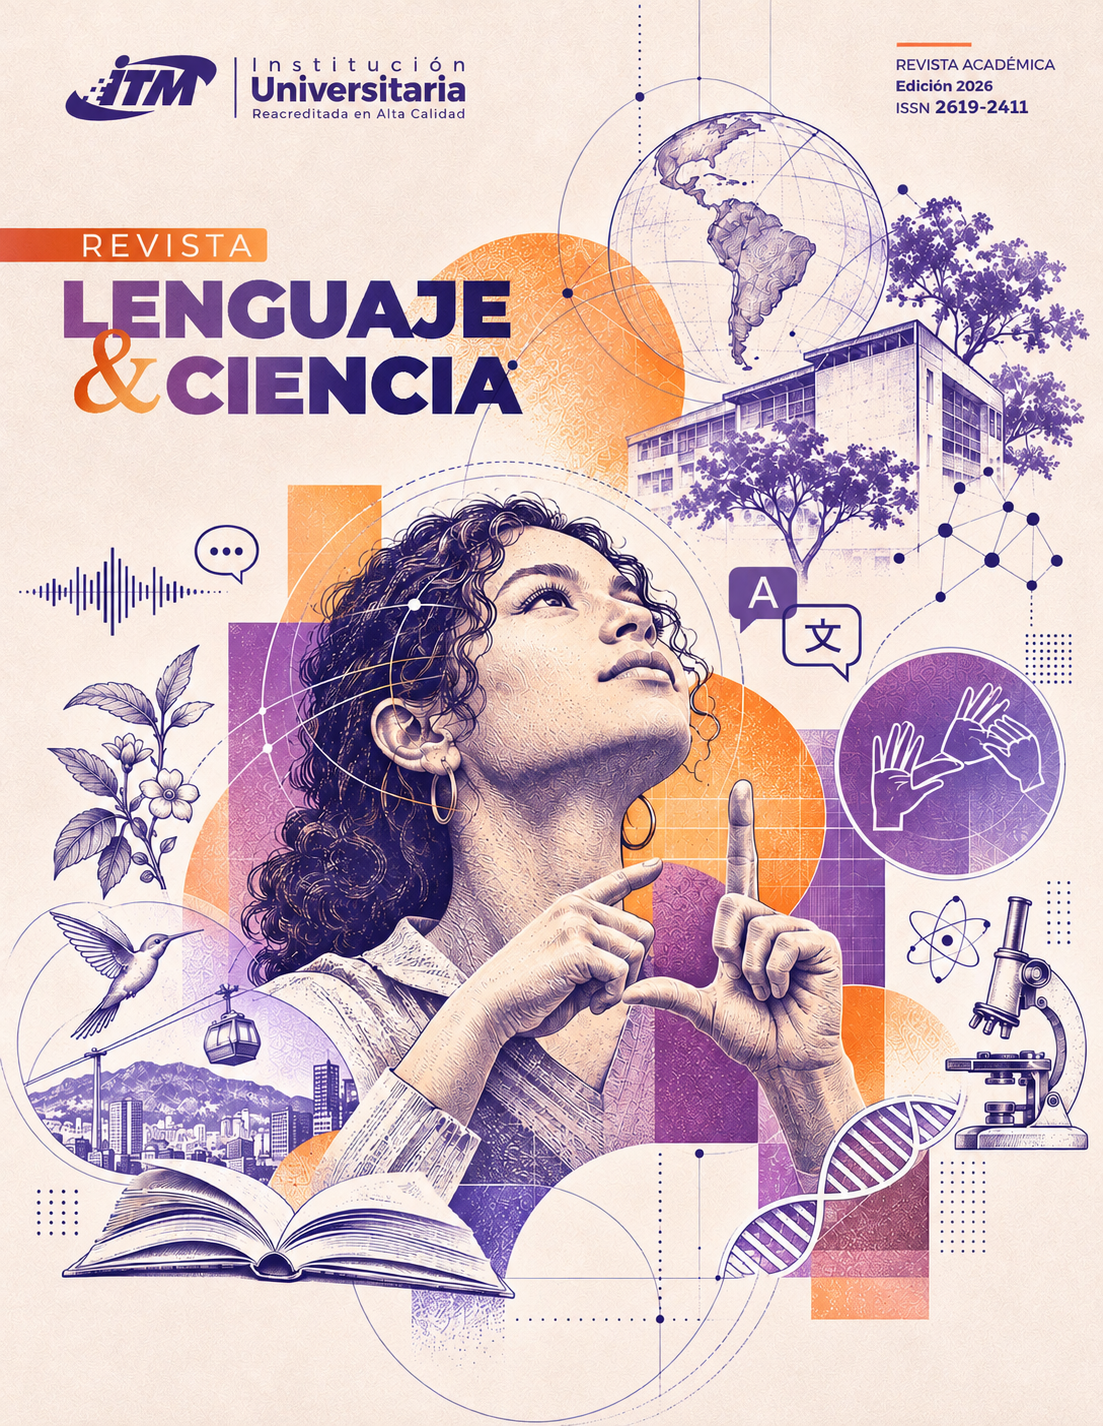
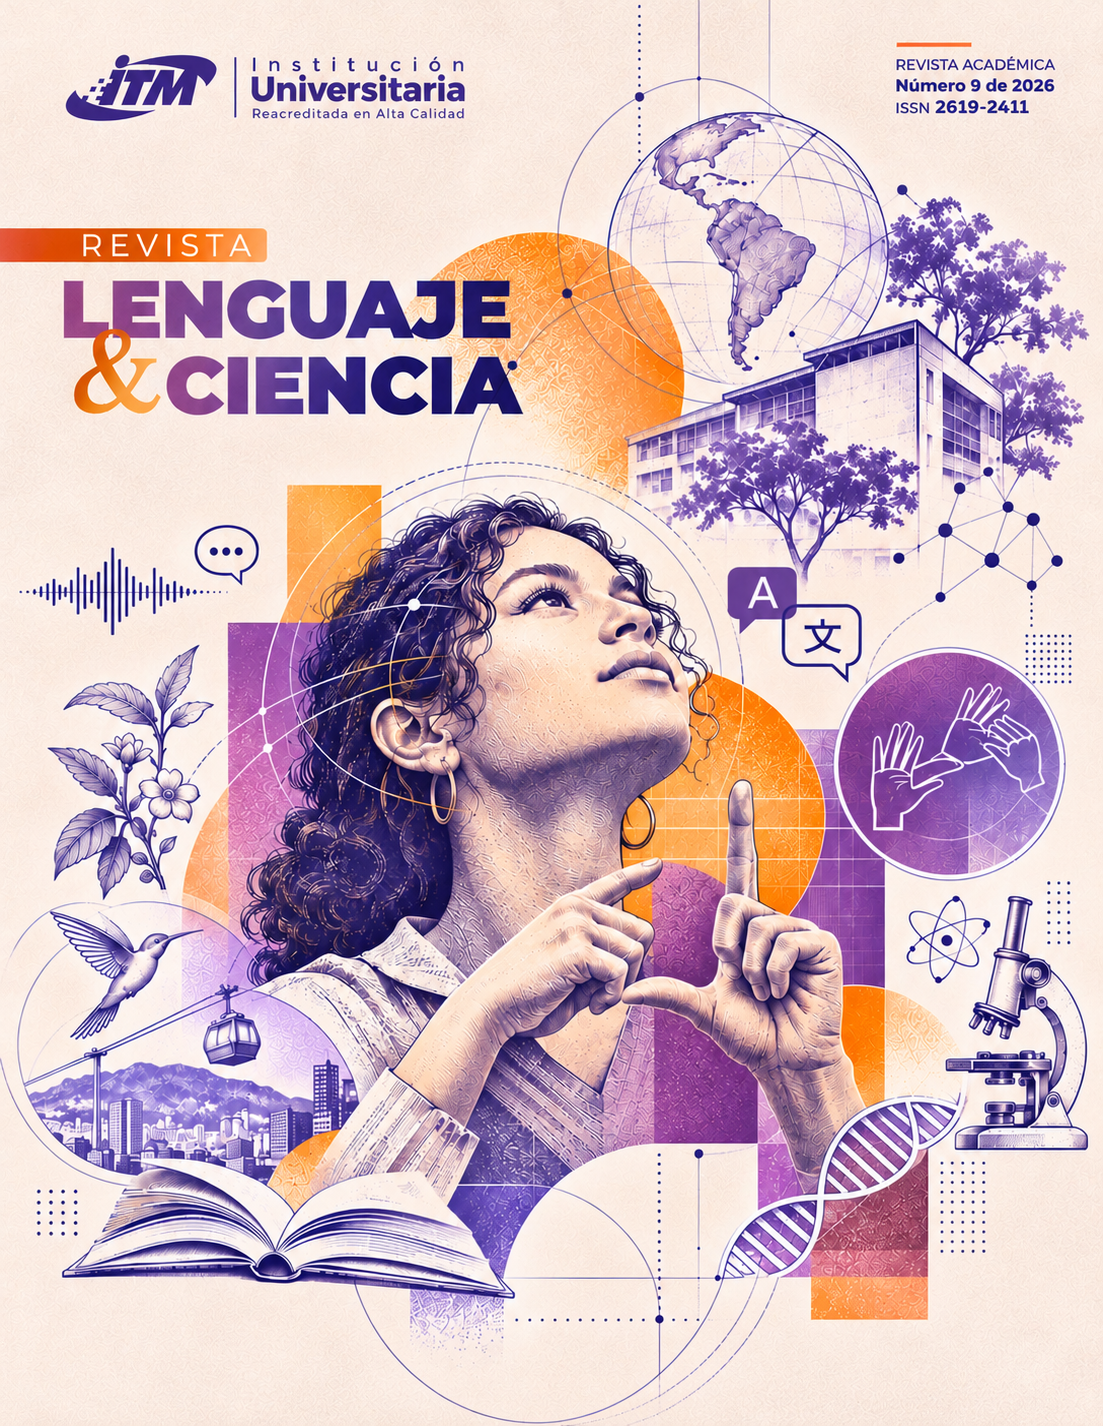
Actualizar libro LSC_20262

diff --git a/LSC_20262/index.html b/LSC_20262/index.html
@@ -117,7 +117,7 @@
 		<p align="center">Dora Alejandra Ramírez Vallejo</p>
 		<p align="center"><a class="tooltip"><font color="blue"><b>Departamento de Idiomas</b></font></a></p>
 		<p align="center">Facultad de Artes y Humanidades</p><br>
-		<p align="justified" style="font-size: 10px;"><b><i>Lenguaje y Ciencia/ Vanessa Rojas Mesa y Valentina Valencia Yepes. Editoras. -No.9 (2026). - Medellín: Institución Universitaria ITM. Facultad de Artes y Humanidades. Departamento de Idiomas, 2026. 201 páginas</i></b></p>
+		<p align="justified" style="font-size: 10px;"><b><i>Lenguaje y Ciencia/ Vanessa Rojas Mesa y Valentina Valencia Yepes. Editoras. -No.9 (2026). - Medellín: Institución Universitaria ITM. Facultad de Artes y Humanidades. Departamento de Idiomas, 2026. 203 páginas</i></b></p>
 		<p align="justified" style="font-size: 10px;"> 1. Publicación seriada. 2. Escritura académica. 3. Lenguaje y Ciencia. I.  Vanessa Rojas Mesa y Valentina Valencia Yepes (eds.) II. Institución Universitaria ITM. Facultad de Artes y Humanidades. Departamento de Idiomas. Catalogación en la publicación - Biblioteca ITM </p><br>
 		<p align="center" style="position: absolute; bottom: 150px; left:0; right:0;">
 				   <img src="https://visitor-badge.laobi.icu/badge?page_id=LSC2026&color=green&title=Visitas" alt="Contador de visitas"> 
@@ -353,9 +353,14 @@
 		<p align="right">
         <b>Carlos Andrés Zambrano Miranda</b>
 		</p>
-
-		<br><br><br>
-
+		<br><p><b><i>Resumen</i></b></p>
+		<p><span class="first-word">Gracias a la globalización, impulsada en gran medida por las redes sociales, hoy día es más fácil que nunca la circulación rápida de información alrededor del mundo. Este fenómeno también permite el contacto, comunicación e intercambio cultural constante entre comunidades de diferentes países. Ahora bien, estas dinámicas nos plantean una reflexión y preocupación frente a la posible influencia de este contacto e intercambio cultural sobre la identidad de la Comunidad Sorda colombiana y sobre la LSC como su lengua propia y parte de su patrimonio cultural. Este artículo considera que, si bien la LSC ha experimentado un proceso constante de desarrollo y reconocimiento a lo largo de los años, recientemente se ve expuesta a una mayor influencia de otras lenguas de señas a nivel internacional que amenazan el estado de los rasgos puros de la LSC y, por ende, su preservación en medio de este periodo histórico de hiperconexión.</span></p>
+		<br><p><b><i>Palabras clave</i></b></p> 
+		<p><span class="first-word">Globalización; patrimonio; redes sociales; lengua pura.</span></p>
+	
+	</div>
+		
+	<div class="page" >	
 		<!-- Contenedor de la imagen y el video -->
 		<div style="position:relative;
                 width:100%;
@@ -385,10 +390,6 @@
         </iframe>
 
 		</div>
-
-	</div>
-
-	<div class="page" >	
 		<p ><b><i>Referencia bibliográfica</i></b></p>
 	    <p class="referencia-apa">
 			Dorian, N. C. (1994). Purism vs. compromise in language revitalization and language revival [Purismo frente a compromiso en la revitalización y el renacimiento de las lenguas]. Language in Society, 23(4), 479-494. https://doi.org/10.1017/S0047404500018169  		
@@ -396,15 +397,19 @@
 		<p class="referencia-apa">
 			Hall, S. (2004). Lo local y lo global: Globalización y etnicidad. En Pensar en los postcoloniales: Ensayos sobre identidad y globalización (pp. 201-220). Editorial Jitanjáfora.
  		</p>
+		
+	</div>  
+	<div class="page" >
 		<p class="referencia-apa">
 			Flores Farfán, J. A. (2009). Variación, ideologías y purismo lingüístico: El caso del mexicano o náhuatl. Centro de Investigaciones y Estudios Superiores en Antropología Social. 
 		</p>
 		<p class="referencia-apa">
 			Zimmermann, K. (2006). El problema del purismo en la modernización lingüística de lenguas amerindias Purismo - Site - INALI. En R. Terborg & L. García Landa (Eds.), Los retos de la planificación del lenguaje en el siglo XXI (Vol. 2, pp. 501–524). Universidad Nacional Autónoma de México / CELE Roland Terborg. 
 		</p>
-	</div>  
+		
+	</div>
 	<div class="page" ></div>	
-	
+	<div class="page" ></div>	
 	<div class="page"  style="margin: 0; background-size: contain; background-image: url(portada/Plantilla_Incial_de_Cada_Texto_PlanoAJUSTADA.png);"><br><br><br><br><br><br><br><br><br><br><br><br><br><br><br><br><br><br>
 		<br><h1 id="A3" align="center">Agenciamiento de servicios de interpretación: relaciones con clientes y usuarios</h1>
 				<p align="right"><b>Oswaldo Gutiérrez Hurtado</b></p><br>
